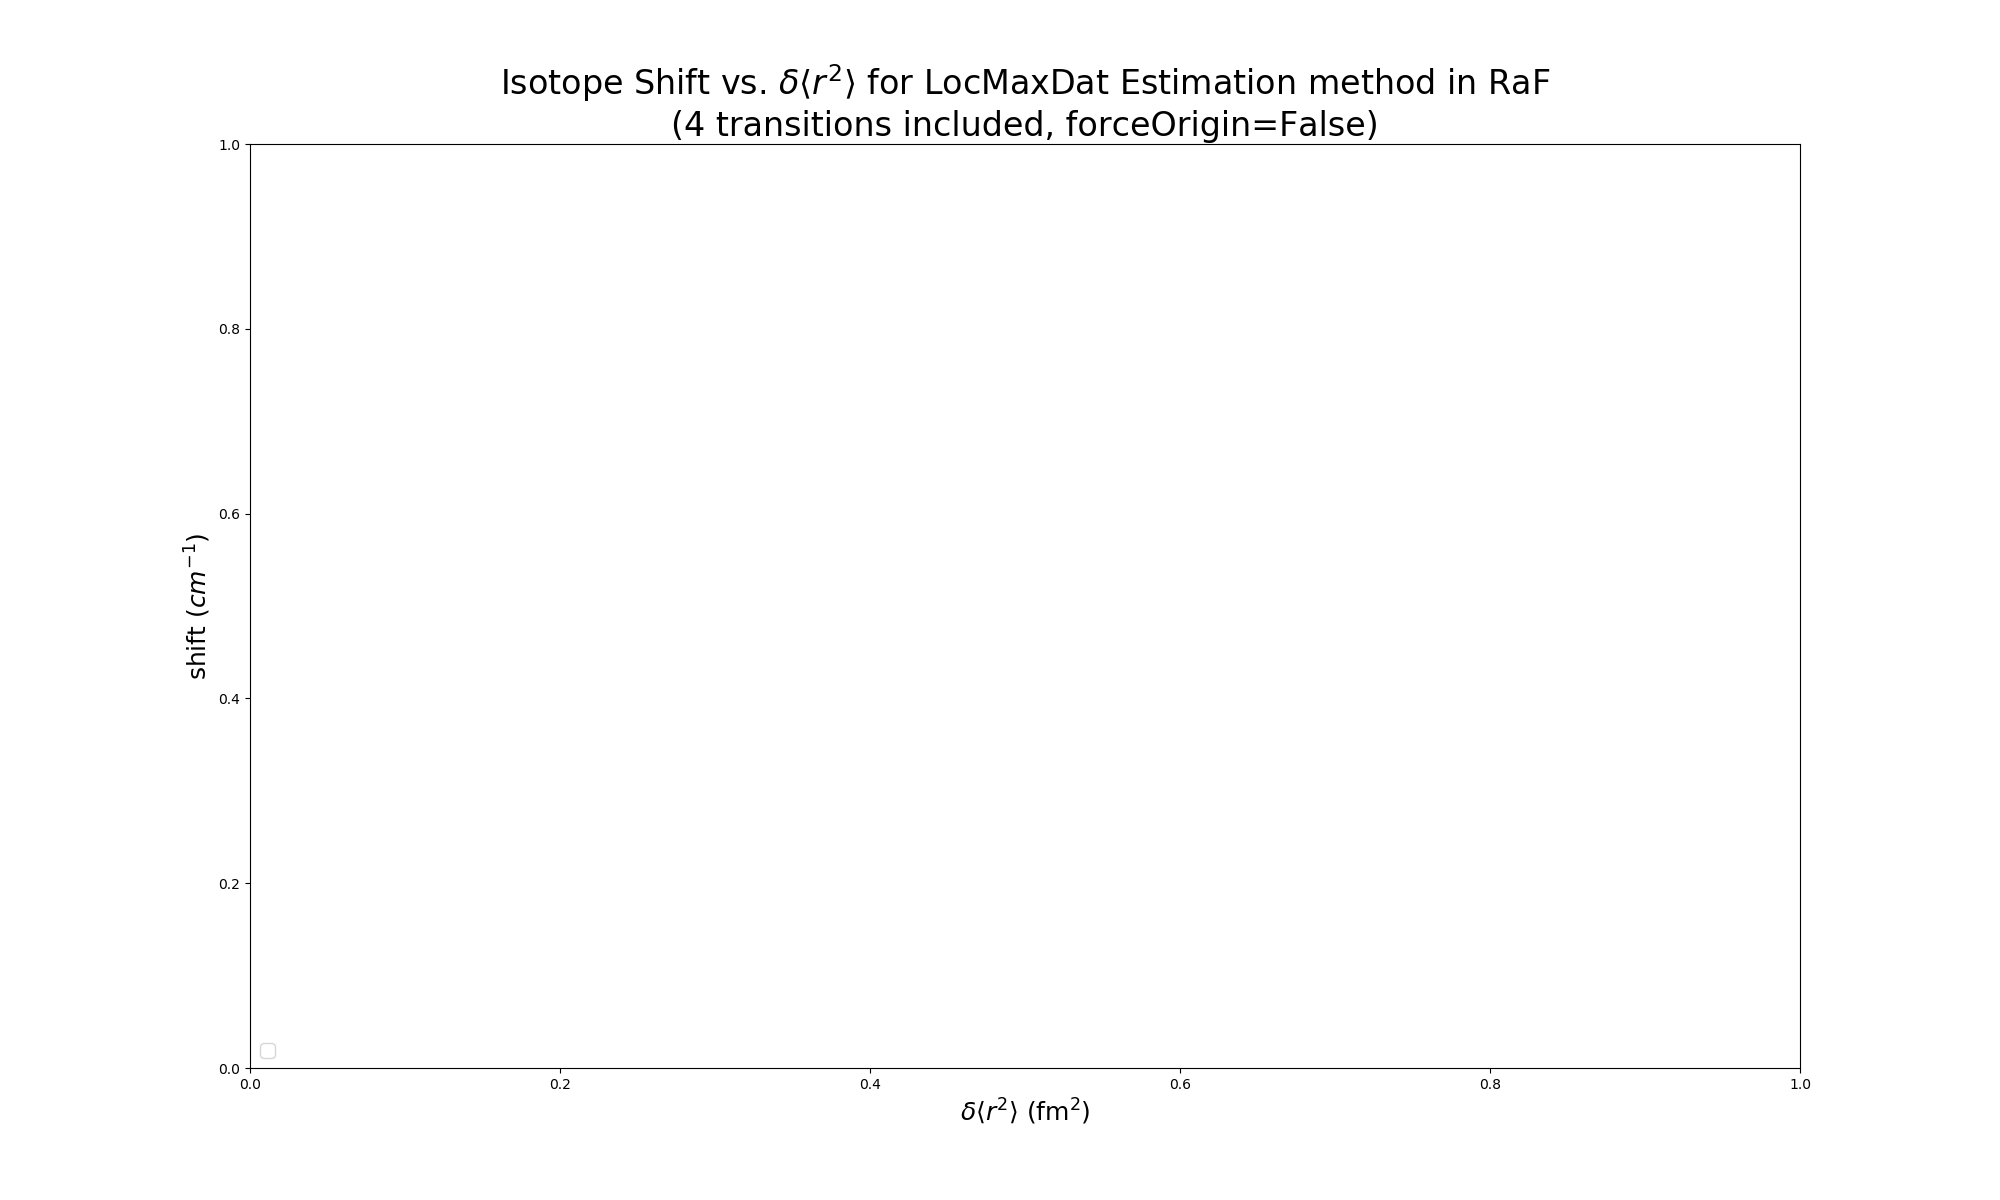
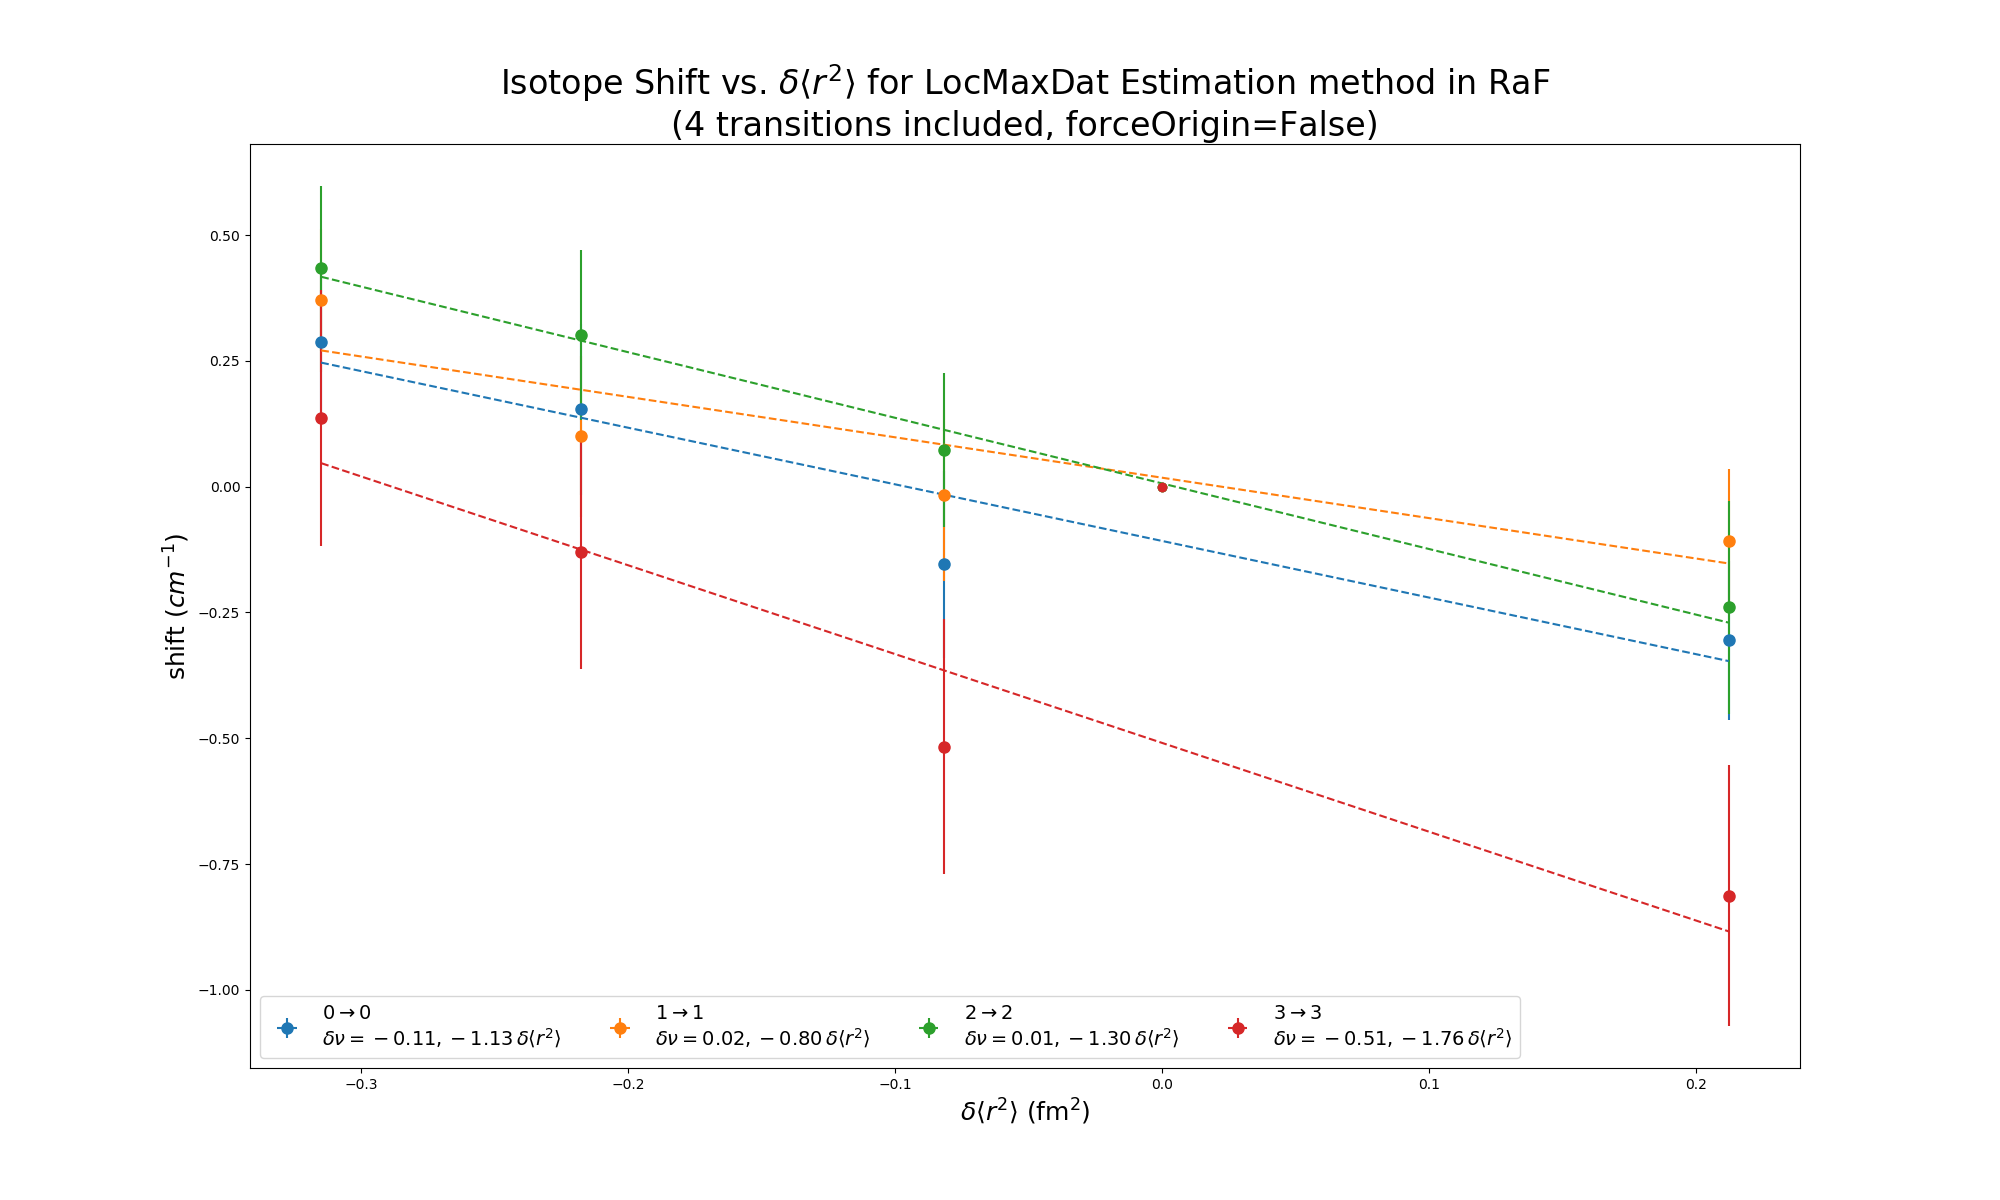
(Also fitting with constant offset)

diff --git a/newTask4_IsotopeShiftsLetsGoooo.py b/newTask4_IsotopeShiftsLetsGoooo.py
@@ -160,7 +160,7 @@ def shiftVsChargeRadPlotter_OneMethodSlice(shiftsFrame, i, deltaRSqDic,sigmaRSqD
       fitReportFile = open('./FitResults/isoShiftsTransition%d_FitReport'%j,'w+')
       plt.errorbar(x=0, y=0, fmt="o", color=color, markersize=6)
       plt.errorbar(x=xDat, y=yDat, xerr=xErr, yerr=yErr, fmt="o",
-      label=r"$%d \rightarrow %d$"%(j,j)+'\n'+r'$\delta\nu=%.2f,%.2f\, \delta\langle r^2\rangle$'%(allFits[j,0,0],allFits[j,1,0]), color=color, markersize=8)
+      label=r"$%d \rightarrow %d$"%(j,j)+'\n'+r'$\delta\nu=%.2f,%.2f\, \delta\langle r^2\rangle$'%(allFits[j,1,0],allFits[j,0,0]), color=color, markersize=8)
     
     fitReportFile.write("Isotope Shift Fit Report for: %d -> %d Transition:"%(j,j));
     fitReportFile.write("Beta: " + str(output.beta) + "\nBeta Std Error: " + str(output.sd_beta) + "\nBeta Covariance" + str(output.cov_beta))
